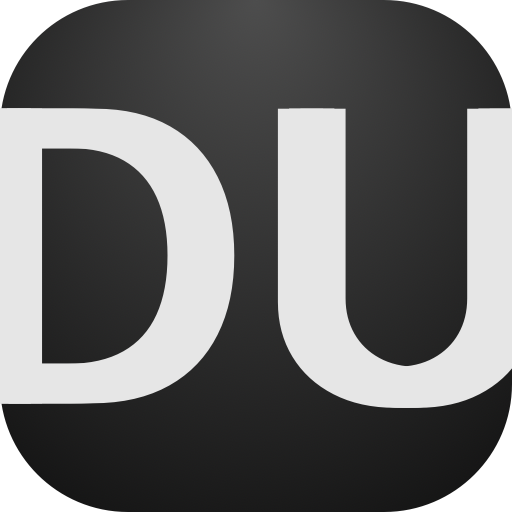
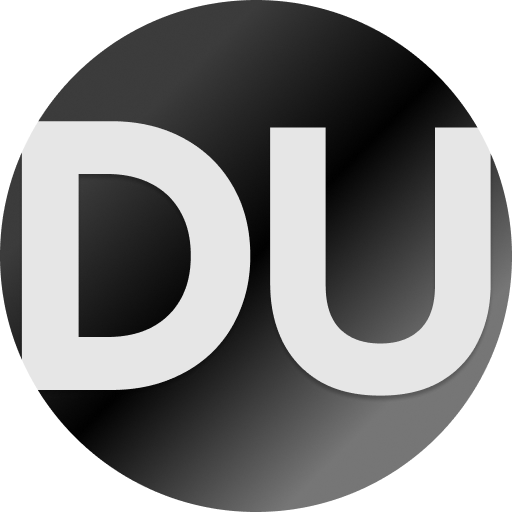
Update duden extension
- remove unused clearCache function
- remove unused DudenApiError interface declaration
- add cleanup effect using isCancelled flag
- switch to raycast\'s built in cache for caching
- remove unused dependencies from package.json
- improve extension icon to work better in both light and dark mode
- update changelog: less technical, more user facing

diff --git a/extensions/duden/src/api/duden.ts b/extensions/duden/src/api/duden.ts
@@ -3,7 +3,8 @@
  * Based on endpoints from the Python duden project
  */
 
-import { DudenWord, SearchResult, CacheEntry } from "../types/duden";
+import { Cache } from "@raycast/api";
+import { DudenWord, SearchResult } from "../types/duden";
 import { parseWordDetails, parseSearchResults } from "../utils/parser";
 
 const BASE_URL = "https://www.duden.de";
@@ -12,40 +13,40 @@ const SEARCH_URL = `${BASE_URL}/suchen/dudenonline`;
 const REQUEST_TIMEOUT = 10000; // 10 seconds
 const CACHE_TTL = 30 * 60 * 1000; // 30 minutes
 
-// Simple in-memory cache
-const cache = new Map<string, CacheEntry<unknown>>();
-
-/**
- * Check if cache entry is still valid
- */
-function isCacheValid<T>(entry: CacheEntry<T>): boolean {
-  return Date.now() - entry.timestamp < entry.ttl;
-}
+// Use Raycast's built-in cache
+const cache = new Cache();
 
 /**
  * Get data from cache if valid
  */
 function getFromCache<T>(key: string): T | null {
-  const entry = cache.get(key);
-  if (entry && isCacheValid(entry)) {
-    return entry.data as T;
+  const cached = cache.get(key);
+  if (!cached) return null;
+
+  try {
+    const parsed = JSON.parse(cached);
+    // Check if cache is expired
+    if (Date.now() - parsed.timestamp > CACHE_TTL) {
+      cache.remove(key);
+      return null;
+    }
+    return parsed.data as T;
+  } catch {
+    return null;
   }
-  // Remove expired entries
-  if (entry) {
-    cache.delete(key);
-  }
-  return null;
 }
 
 /**
  * Store data in cache
  */
 function setCache<T>(key: string, data: T): void {
-  cache.set(key, {
-    data,
-    timestamp: Date.now(),
-    ttl: CACHE_TTL,
-  });
+  cache.set(
+    key,
+    JSON.stringify({
+      data,
+      timestamp: Date.now(),
+    }),
+  );
 }
 
 /**
@@ -117,7 +118,6 @@ export async function searchWords(query: string): Promise<SearchResult[]> {
       // Return empty array for 404s as discussed
       return [];
     }
-    console.error("Search error:", error);
     throw error;
   }
 }
@@ -132,21 +132,16 @@ export async function getWordDetails(urlname: string): Promise<DudenWord> {
     return cached;
   }
 
-  try {
-    const url = `${WORD_URL}/${encodeURIComponent(urlname)}`;
-    const html = await makeRequest(url);
-    const word = parseWordDetails(html);
+  const url = `${WORD_URL}/${encodeURIComponent(urlname)}`;
+  const html = await makeRequest(url);
+  const word = parseWordDetails(html);
 
-    if (!word) {
-      throw new Error("Failed to parse word details");
-    }
-
-    setCache(cacheKey, word);
-    return word;
-  } catch (error) {
-    console.error("Word details error:", error);
-    throw error;
+  if (!word) {
+    throw new Error("Failed to parse word details");
   }
+
+  setCache(cacheKey, word);
+  return word;
 }
 
 /**
@@ -161,19 +156,11 @@ export async function searchAndGetDetails(query: string): Promise<{ results: Sea
     try {
       const singleWord = await getWordDetails(results[0].urlname);
       return { results, singleWord };
-    } catch (error) {
+    } catch {
       // If details fetch fails, just return the search result
-      console.error("Failed to fetch details for single result:", error);
       return { results };
     }
   }
 
   return { results };
-}
-
-/**
- * Clear cache (useful for testing or manual refresh)
- */
-export function clearCache(): void {
-  cache.clear();
 }

diff --git a/extensions/duden/src/search-duden-de.tsx b/extensions/duden/src/search-duden-de.tsx
@@ -21,32 +21,42 @@ export default function SearchDuden() {
       return;
     }
 
+    let isCancelled = false;
     setIsLoading(true);
 
     const performSearch = async () => {
       try {
         const { results, singleWord } = await searchAndGetDetails(searchText);
 
-        setSearchResults(results);
+        if (!isCancelled) {
+          setSearchResults(results);
 
-        // If single result, push details immediately as discussed
-        if (singleWord) {
-          push(<WordDetails word={singleWord} />);
+          // If single result, push details immediately as discussed
+          if (singleWord) {
+            push(<WordDetails word={singleWord} />);
+          }
         }
       } catch (error) {
-        console.error("Search failed:", error);
-        await showToast({
-          style: Toast.Style.Failure,
-          title: "Search failed",
-          message: error instanceof Error ? error.message : "Unknown error",
-        });
-        setSearchResults([]);
+        if (!isCancelled) {
+          await showToast({
+            style: Toast.Style.Failure,
+            title: "Search failed",
+            message: error instanceof Error ? error.message : "Unknown error",
+          });
+          setSearchResults([]);
+        }
       } finally {
-        setIsLoading(false);
+        if (!isCancelled) {
+          setIsLoading(false);
+        }
       }
     };
 
     performSearch();
+
+    return () => {
+      isCancelled = true;
+    };
   }, [searchText]);
 
   // Handle word selection from search results
@@ -56,7 +66,6 @@ export default function SearchDuden() {
       const word = await getWordDetails(result.urlname);
       push(<WordDetails word={word} />);
     } catch (error) {
-      console.error("Failed to load word details:", error);
       await showToast({
         style: Toast.Style.Failure,
         title: "Failed to load word details",

diff --git a/extensions/duden/src/utils/parser.ts b/extensions/duden/src/utils/parser.ts
@@ -193,8 +193,7 @@ export function parseWordDetails(html: string): DudenWord | null {
       alternativeSpellings,
       examples,
     };
-  } catch (error) {
-    console.error("Error parsing word details:", error);
+  } catch {
     return null;
   }
 }
@@ -246,8 +245,8 @@ export function parseSearchResults(html: string): SearchResult[] {
         }
       }
     });
-  } catch (error) {
-    console.error("Error parsing search results:", error);
+  } catch {
+    // Silently ignore parsing errors
   }
 
   return results;

diff --git a/extensions/duden/src/types/duden.ts b/extensions/duden/src/types/duden.ts
@@ -42,19 +42,3 @@ export interface SearchResult {
   /** Part of speech for preview */
   partOfSpeech?: string;
 }
-
-export interface DudenApiError {
-  /** Error type */
-  type: "network" | "not_found" | "parse_error";
-  /** Error message */
-  message: string;
-}
-
-export interface CacheEntry<T> {
-  /** Cached data */
-  data: T;
-  /** Timestamp when cached */
-  timestamp: number;
-  /** TTL in milliseconds */
-  ttl: number;
-}

diff --git a/extensions/duden/CHANGELOG.md b/extensions/duden/CHANGELOG.md
@@ -1,43 +1,25 @@
-# Changelog
+# Duden Dictionary Changelog
 
-All notable changes to the Duden Raycast extension will be documented in this file.
+## [Initial Version] - {PR_MERGE_DATE}
 
-The format is based on [Keep a Changelog](https://keepachangelog.com/en/1.0.0/),
-and this project adheres to [Semantic Versioning](https://semver.org/spec/v2.0.0.html).
-
-## [1.0.0] - {PR_MERGE_DATE}
-
-### Added
-- Initial release of Duden dictionary extension for Raycast
-- Real-time German word search with minimum 3-character trigger
-- Comprehensive word information display including:
-  - Word title with article (e.g., "Löffel, der")
-  - Part of speech classification
-  - Frequency rating (1-5 stars)
-  - Word separation/syllables
-  - Detailed meanings and definitions
+### 🆕 Features
+- Search for German words quickly from Raycast
+- Get complete word information including:
+  - Word with article (e.g., "Löffel, der")
+  - Part of speech
+  - How common the word is (shown with stars)
+  - Word breakdown by syllables
+  - Full definitions and meanings
   - Synonyms
-  - Usage context
-  - Etymology/origin information
-  - Pronunciation (IPA notation)
+  - Usage notes
+  - Word origin
+  - Pronunciation guide
   - Alternative spellings
-  - Usage examples
-- Smart search behavior:
-  - Auto-jump to details view for single results
-  - Debounced search (300ms) for performance
-  - Limited to 12 search results for optimal UX
-- Copy actions for word, meaning, and pronunciation
-- Direct links to open words on Duden.de
-- In-memory caching (30-minute TTL) for improved performance
-- Comprehensive error handling and user feedback
-
-### Technical Details
-- Built with TypeScript and React
-- Uses Cheerio for HTML parsing
-- Implements web scraping of duden.de with respectful caching
-- Based on parsing patterns from the Python `duden` project
-
-### Credits
-- Inspired by and based on parsing techniques from the [Python duden project](https://github.com/radomirbosak/duden)
-- Created by Radomir Bosak and contributors
-- Web scraping patterns adapted from their comprehensive Duden.de parser
+  - Example sentences
+- Smart features:
+  - Instantly shows details when only one result is found
+  - Fast, responsive search
+  - Shows up to 12 most relevant results
+- Quick actions to copy word information
+- Open words directly on Duden.de website
+- Works fast with smart caching
